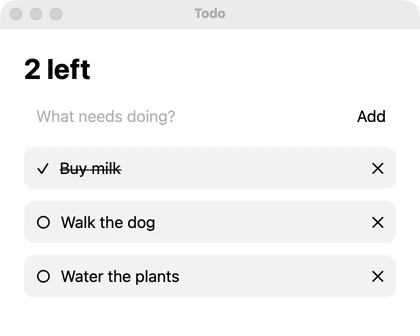
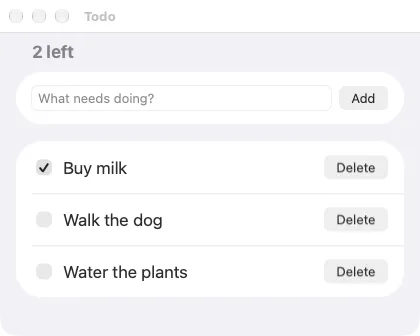
README: the example todo app says what each thing is and no colour or size (LLP 1115.000 D1.3)
The first Contract a reader of the repository sees taught what LLP 1115
retired: a card painted `light-dark(#f2f2f5, #1c1c1e)`, a count at
`font-size=28 font-weight=700`, `padding=10` on a field and a button, and
toggle and delete buttons drawn as the glyphs ✓, ○ and ✕ (DOC-06).
`scripts/no-tells.mjs README.md` listed three tells.

Now it is a `list appearance="auto"` of two sections: the count as the
first section's header (`role="heading"`), a row holding the field and
its Add button, and a row per todo holding an `input type="checkbox"`,
its title and a `destructive` button labelled Delete. It writes no
colour, no font, no padding and no `style`, so each host draws its own:
on iOS UIKit's list with round checkmarks and capsule buttons, on the Mac
AppKit's checkboxes and push buttons, in a browser its checkbox and
field. The block is 43 lines where it was 44, and the lint finds nothing
in it.

A checkbox reports its new value, so `toggle` takes it and the source is
`setDone(id, done)`, which sets where `toggleTodo(id)` flipped; that is
the one change in `app.ts`. The test is unchanged: its steps and every
`testId` still apply to the new controls.

Delete is a labelled button, not the swipe. The swipe is a snap scroll
(docs/recipes/list-rows.md): eight lines of layout for a row that holds
only a title, in an example that has to stay short, and its action is
out of sight until the row is swiped.

The three files, exactly as the README shows them, were put in an app
[…]

diff --git a/README.md b/README.md
@@ -339,7 +339,8 @@ app: a Contract file, a TypeScript file, and a test. This exact app was built fo
 macOS, and the iOS Simulator, and its test passed on all three.
 
 ```contract
-// app.contract: the view, its state, and what each action changes
+// app.contract: the view, its state, and what each action changes. It names no colour,
+// font or control size: each host draws its own heading, field, button, checkbox and list.
 shape Todo
   id: string
   title: string
@@ -347,10 +348,6 @@ shape Todo
 
 shape Change
   count: number
-
-style Card
-  padding=12 border-radius=10 gap=10 align-items="center"
-  background-color="light-dark(#f2f2f5, #1c1c1e)"
 
 component Todos
   state draft = ""
@@ -364,25 +361,27 @@ component Todos
     if trim(draft) != ""
       send changed = addTodo(trim(draft))
       draft = ""
-  action toggle(id: string)
-    send changed = toggleTodo(id)
+  action toggle(id: string, done: bool)
+    send changed = setDone(id, done)
   action remove(id: string)
     send changed = removeTodo(id)
 
   view
-    column padding=24 gap=12
-      text `${left} left` font-size=28 font-weight=700 testId="count"
-      row gap=8
-        input value=draft input=edit submit=add placeholder="What needs doing?" aria-label="New todo" testId="new-todo" flex=1 padding=10
-        button press=add padding=10 testId="add"
-          text "Add"
-      each t in todos key=t.id
-        row class=Card testId=`todo-${t.id}`
-          button press=toggle(t.id) aria-label="Toggle" testId=`toggle-${t.id}`
-            text (t.done ? "✓" : "○")
-          text t.title flex=1 text-decoration-line=(t.done ? "line-through" : "none")
-          button press=remove(t.id) aria-label="Delete" testId=`remove-${t.id}`
-            text "✕"
+    list appearance="auto" height="100%"
+      section
+        header
+          text `${left} left` role="heading" testId="count"
+        row
+          input value=draft input=edit submit=add placeholder="What needs doing?" aria-label="New todo" testId="new-todo" flex=1 min-width=0
+          button press=add testId="add"
+            text "Add"
+      section
+        each t in todos key=t.id
+          row testId=`todo-${t.id}`
+            input type="checkbox" checked=t.done change=toggle(t.id) aria-label=t.title testId=`toggle-${t.id}`
+            text t.title flex=1
+            button press=remove(t.id) destructive=true testId=`remove-${t.id}`
+              text "Delete"
 ```
 
 ```ts
@@ -402,8 +401,8 @@ const sources: Sources = {
     todos = [...todos, { id: String(next++), title, done: false }];
     return { count: todos.length };
   },
-  toggleTodo: ([id]) => {
-    todos = todos.map((t) => (t.id === id ? { ...t, done: !t.done } : t));
+  setDone: ([id, done]) => {
+    todos = todos.map((t) => (t.id === id ? { ...t, done } : t));
     return { count: todos.length };
   },
   removeTodo: ([id]) => {
